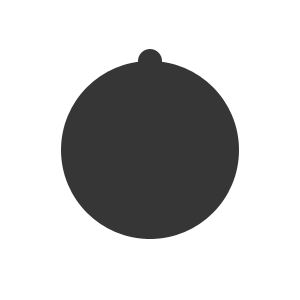
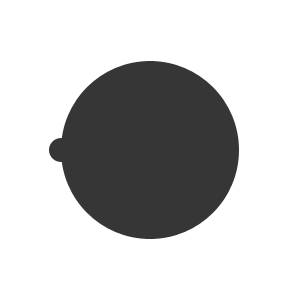
dial widget working

Changed region(s): [[0.45, 0.15, 0.54, 0.21], [0.15, 0.45, 0.21, 0.54]]

diff --git a/widgets/tmp-dial.html b/widgets/tmp-dial.html
@@ -1,0 +1,55 @@
+<canvas width="300" height="300"></canvas>
+<script src="widgets.js"></script>
+
+<script>
+
+setupCanvas(function(widget){
+	widget.angle = 0;
+	widget.value = 0;
+	
+	function draw(){
+		widget.ctx.setTransform(1, 0, 0, 1, 0, 0)
+		widget.ctx.drawImage(widget.images['tmp-dial-bg.png'], 0, 0);
+		
+		var c = Math.cos(widget.angle);
+		var s = Math.sin(widget.angle);
+		widget.ctx.setTransform(c, s, -s, c, 150, 150)
+		widget.ctx.drawImage(widget.images['tmp-dial.png'], -150, -150);
+	}
+	
+	var dragging = false;
+	widget.canvas.onmousedown = function(e){
+		var radius = 100;
+		var x = e.clientX - 150;
+		var y = e.clientY - 150;
+		if(x*x + y*y < radius*radius){
+			dragging = true;
+		}
+	}
+	
+	widget.canvas.onmouseup = function(){
+		dragging = false;
+	}
+	
+	widget.canvas.onmousemove = function(e){
+		if(!dragging) return;
+		
+		var angle = Math.atan2(e.clientX - 150, 150 - e.clientY);
+		var clamped = Math.min(Math.max(-Math.PI/2, angle), Math.PI/2) + Math.PI/2;
+		
+		var quant = Math.PI/4;
+		var value = Math.round(clamped/quant);
+		
+		if(widget.value != value){
+			widget.value = value;
+			console.log("value set to: " + value);
+			
+			widget.angle = value*quant;
+			draw();
+		}
+	}
+	
+	draw()
+})
+
+</script>
